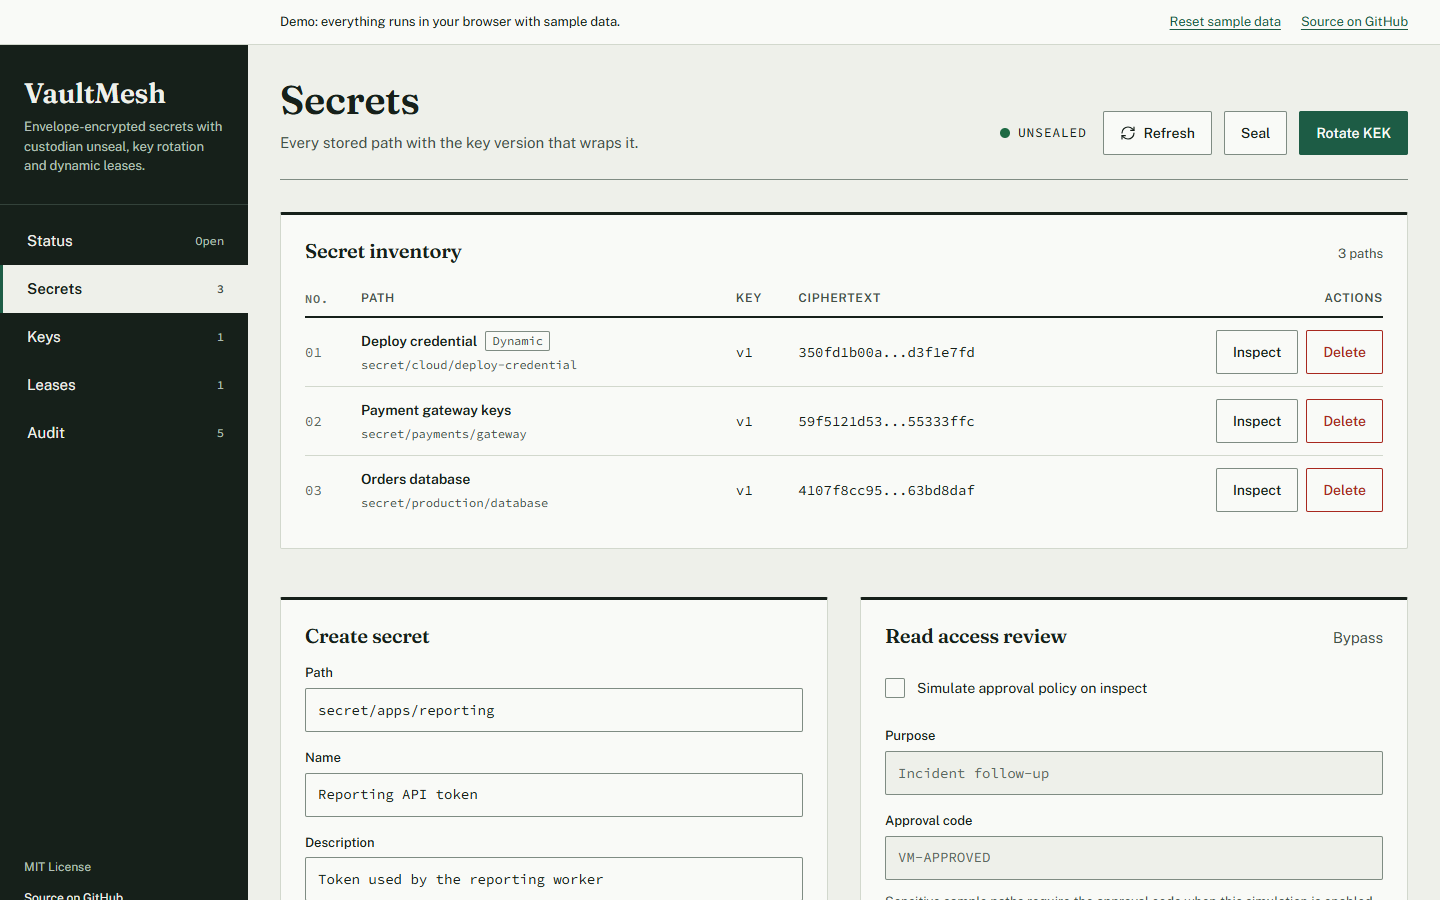
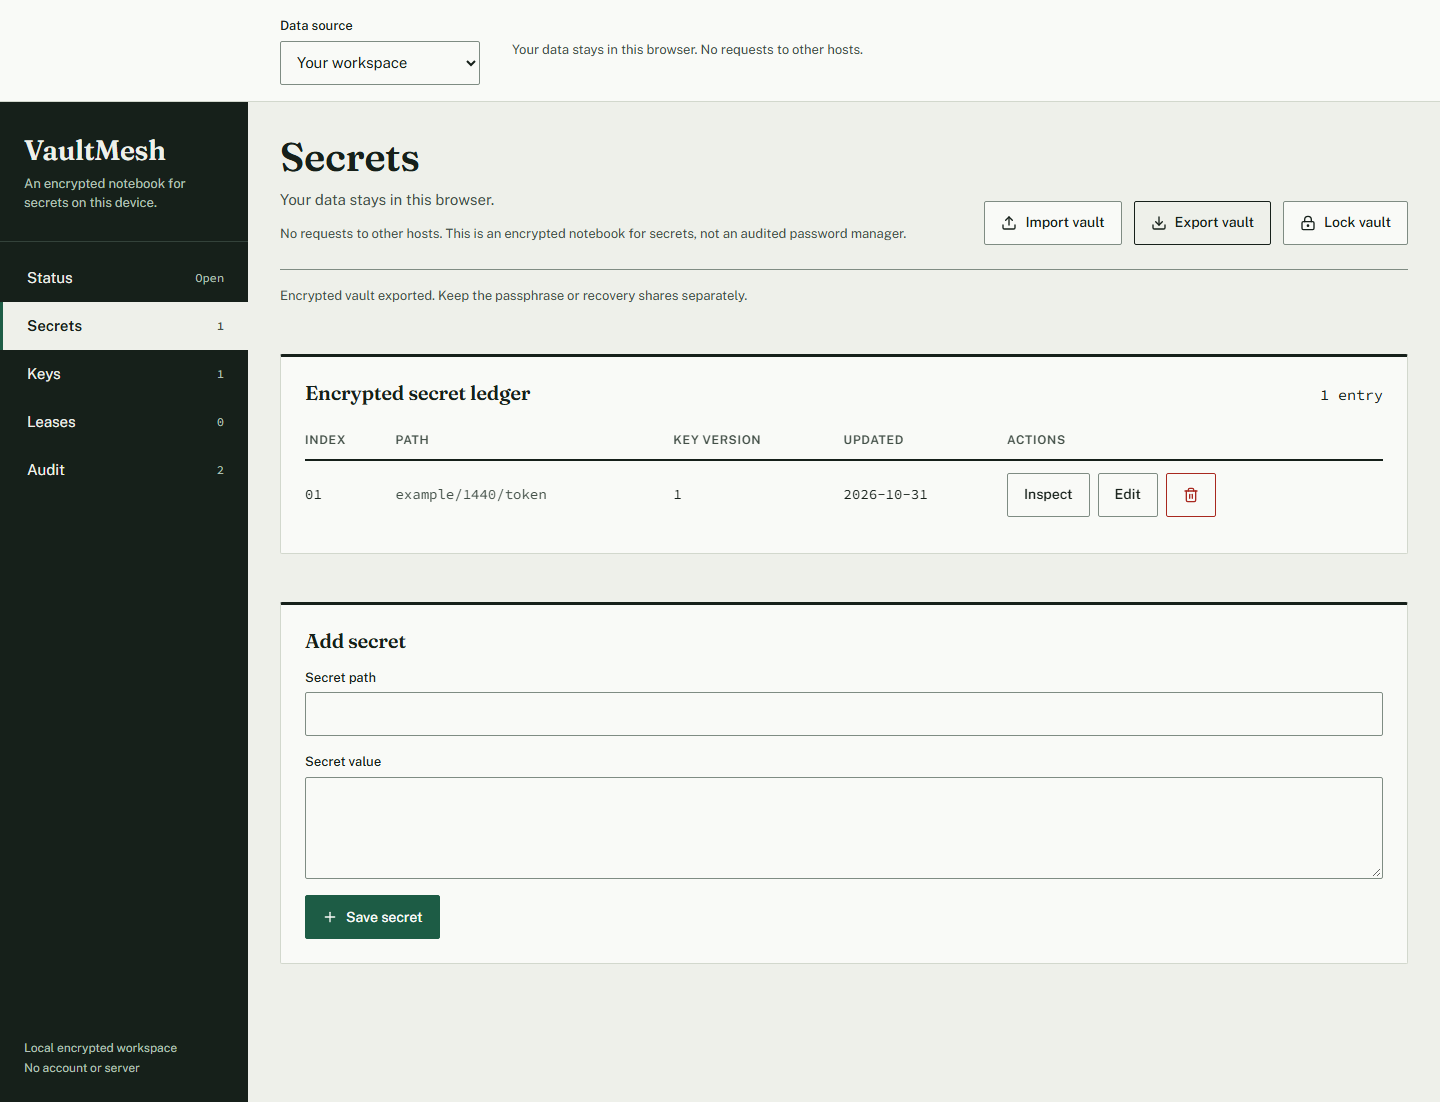
Explain encrypted backups and refresh the vault views

diff --git a/client/index.html b/client/index.html
@@ -6,13 +6,13 @@
     <meta name="viewport" content="width=device-width, initial-scale=1.0" />
     <meta
       name="description"
-      content="VaultMesh is a local secrets console for trying envelope encryption, Shamir unseal shares, key rotation, dynamic leases and a hash-chained audit log."
+      content="An encrypted local notebook for secrets with portable backups, passphrase rotation and recovery shares."
     />
     <meta name="theme-color" content="#183d32" />
-    <title>VaultMesh secrets console</title>
+    <title>VaultMesh encrypted notebook</title>
     <meta property="og:type" content="website" />
-    <meta property="og:title" content="VaultMesh secrets console" />
-    <meta property="og:description" content="Local secrets manager: envelope encryption, Shamir unseal, key rotation, dynamic leases" />
+    <meta property="og:title" content="VaultMesh encrypted notebook" />
+    <meta property="og:description" content="Encrypted local secrets with portable backups, passphrase rotation and recovery shares" />
     <meta property="og:url" content="https://taan1el.github.io/vaultmesh/" />
     <meta name="twitter:card" content="summary" />
   </head>

diff --git a/README.md b/README.md
@@ -1,6 +1,6 @@
 # VaultMesh
 
-VaultMesh is a local secrets manager for trying out the mechanics behind a production KMS end to end: envelope encryption, Shamir threshold unseal, key rotation, dynamic leased credentials and a tamper-evident audit log. It ships as an Express API with a React dashboard, for developers who want to see how these pieces fit together without standing up a real KMS.
+VaultMesh keeps an encrypted notebook of secrets in your browser. Create a passphrase-protected workspace, save secret paths and values locally, and take encrypted backups with you. A separate sample console and optional Express API cover custodian unseal, dynamic leases and a hash-chained audit ledger.
 
 [![CI](https://github.com/Taan1el/vaultmesh/actions/workflows/ci.yml/badge.svg)](https://github.com/Taan1el/vaultmesh/actions/workflows/ci.yml)
 [![Pages](https://github.com/Taan1el/vaultmesh/actions/workflows/pages.yml/badge.svg)](https://github.com/Taan1el/vaultmesh/actions/workflows/pages.yml)
@@ -8,15 +8,29 @@ VaultMesh is a local secrets manager for trying out the mechanics behind a produ
 
 **Live demo:** https://taan1el.github.io/vaultmesh/
 
-The demo runs entirely in your browser: the same validation, Shamir, lease, audit and seed logic the server uses runs against the Web Crypto API and localStorage instead of a real API, so it works with no backend.
+The Pages app runs entirely in your browser, with no account, API key or backend. Choose **Your workspace** for your encrypted notebook, or **Sample data** for the resettable console examples. Resetting sample data leaves the encrypted workspace untouched.
+
+## Use it with your own data
+
+Create a vault in **Your workspace** with a passphrase of at least 12 characters. Add, inspect, edit or delete secret paths and values in the indexed ledger. All contents, including secret names and timestamps, are encrypted before IndexedDB receives them. The passphrase, decrypted values, data key and recovery shares stay in memory and are cleared from the page on lock.
+
+**Export vault** downloads one versioned JSON file containing KDF parameters, salt, nonces, wrapped data key and ciphertext. **Import vault** validates that format before replacing saved data, asks for confirmation when a vault already exists, and leaves it locked. Keep exports outside this browser; clearing browser data removes its saved copy. **Delete vault** under Status removes the saved copy after confirmation and locks its decrypted contents. Vault contents are limited to 1 MiB and 500 entries, with imported files limited to 4 MiB.
+
+The passphrase derives a wrapping key with PBKDF2-SHA-256 at 600,000 iterations and a random 16-byte salt. A random 256-bit data key encrypts the notebook with AES-GCM. A separate AES-GCM operation wraps that data key. Every encryption uses a new 12-byte nonce and a 128-bit authentication tag; vault identity and purpose are authenticated. Rotating the passphrase re-wraps the data key with a new salt while preserving the encrypted notebook. Older exports still use their older passphrases.
+
+Under **Keys**, create five recovery shares and keep them separately. Any three from the same set, together with an encrypted vault file, can recover the notebook and set a new passphrase. Shares use the existing Shamir implementation and are never saved in browser storage. Older share sets still recover the same data key after passphrase rotation. Losing both the passphrase and enough recovery shares makes recovery unavailable.
+
+The page locks after five minutes of inactivity by default, with one- and fifteen-minute choices, and locks when the tab is hidden unless that option is turned off. These settings apply to the current open page. Copying a value schedules clipboard clearing after 30 seconds and locking also attempts to clear it. Browser clipboard permissions and background scheduling can prevent timely clearing; a failed clear is reported. When clipboard reads are permitted, newer contents copied elsewhere are preserved.
+
+Your data stays in this browser. The installed Pages app works offline after its first load, precaches its own assets under `/vaultmesh/`, and restricts scripts and connections to its own host through Content Security Policy. No requests go to other hosts. Development mode retains the optional API and hot reload. This workspace is an encrypted notebook for secrets, not an audited password manager; its session activity list is temporary, and it issues no live credentials or leases.
 
 ## Screenshot
 
-![VaultMesh dashboard with the ink navigation rail and the indexed secret ledger](docs/screenshots/01-dashboard.png)
+![Encrypted local notebook with the ink navigation rail and indexed secret ledger](docs/screenshots/01-dashboard.png)
 
-More screenshots: [inspecting a decrypted secret](docs/screenshots/02-inspect-secret.png), [sealed vault with the custodian share slots](docs/screenshots/03-unseal-and-leases.png), [mobile layout](docs/screenshots/04-mobile.png), [audit ledger](docs/screenshots/04-browser-workflow.png).
+More screenshots: [inspecting a local secret](docs/screenshots/02-inspect-secret.png), [locked encrypted vault](docs/screenshots/03-unseal-and-leases.png), [mobile layout](docs/screenshots/04-mobile.png), [temporary session activity](docs/screenshots/04-browser-workflow.png).
 
-## Features
+## Sample console and API features
 
 - **Custodian unseal**: 3-of-5 Shamir secret sharing rebuilds the root key from any three of five shares. A forged, duplicate or malformed share is rejected, and a failed attempt clears progress instead of leaving the vault stuck.
 - **Envelope encryption**: every secret gets a single-use AES-256-GCM data-encryption key (DEK), which is itself wrapped by the active key-encryption key (KEK).
